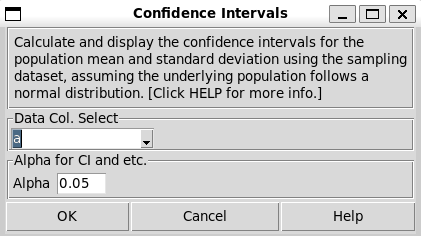
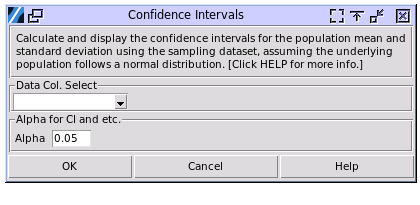
udpate ci.rst

diff --git a/docs/usage/ci.rst b/docs/usage/ci.rst
@@ -13,14 +13,25 @@ Choose Stats>Confidence Intervals.
 
 A sample output:
 
-.. image:: images/ci2.png
-   :align: center
+.. code-block:: none
+
+  ---- Confidence Intervals ----
+  For the population where the samples came from:
+  
+  95.0% Prob that mean is in the range of (0.520, 1.469)
+  95.0% Prob that mean is less than 1.386.
+  95.0% Prob that mean is greater than 0.602.
+  
+  95.0% Prob that stdev is in the range of (0.771, 1.480)
+  95.0% Prob that stdev is less than 1.389.
+  95.0% Prob that stdev is greater than 0.805.
+  Stdev CI method is same to JMP but different from Minitab.
 
 Interpretation:
 
-- **Two-sided CI:** A 95% two-sided CI of (-0.119, 0.852) for a population mean can be interpreted as: "We are 95% confident that the true population mean falls between -0.119 and 0.852." This means that if we were to repeat the sampling process many times and calculate the CI each time, about 95% of these intervals would contain the true population mean.
+- **Two-sided Confidence Interval:** A 95% two-sided confidence interval with bounds of (-0.119, 0.852) for a population mean can be interpreted as: "We are 95% confident that the true population mean falls between -0.119 and 0.852." This means that if we were to repeat the sampling process many times and calculate the confidence interval each time, about 95% of these intervals would contain the true population mean.
 
-- **One-sided CI:** A 95% one-sided upper CI of (-, 0.767) can be interpreted as: "We are 95% confident that the true population mean is less than or equal to 0.767." A 95% one-sided lower CI of (-0.035, +) can be interpreted as: "We are 95% confident that the true population mean is greater than or equal to -0.035."
+- **One-sided Confidence Interval:** A 95% one-sided upper bound of 0.767 can be interpreted as: "We are 95% confident that the true population mean is less than or equal to 0.767." Similarly, a 95% one-sided lower bound of -0.035 can be interpreted as: "We are 95% confident that the true population mean is greater than or equal to -0.035."
 
 The Interpretation of CI of standard deviation is same to the mean CI above. 
 
